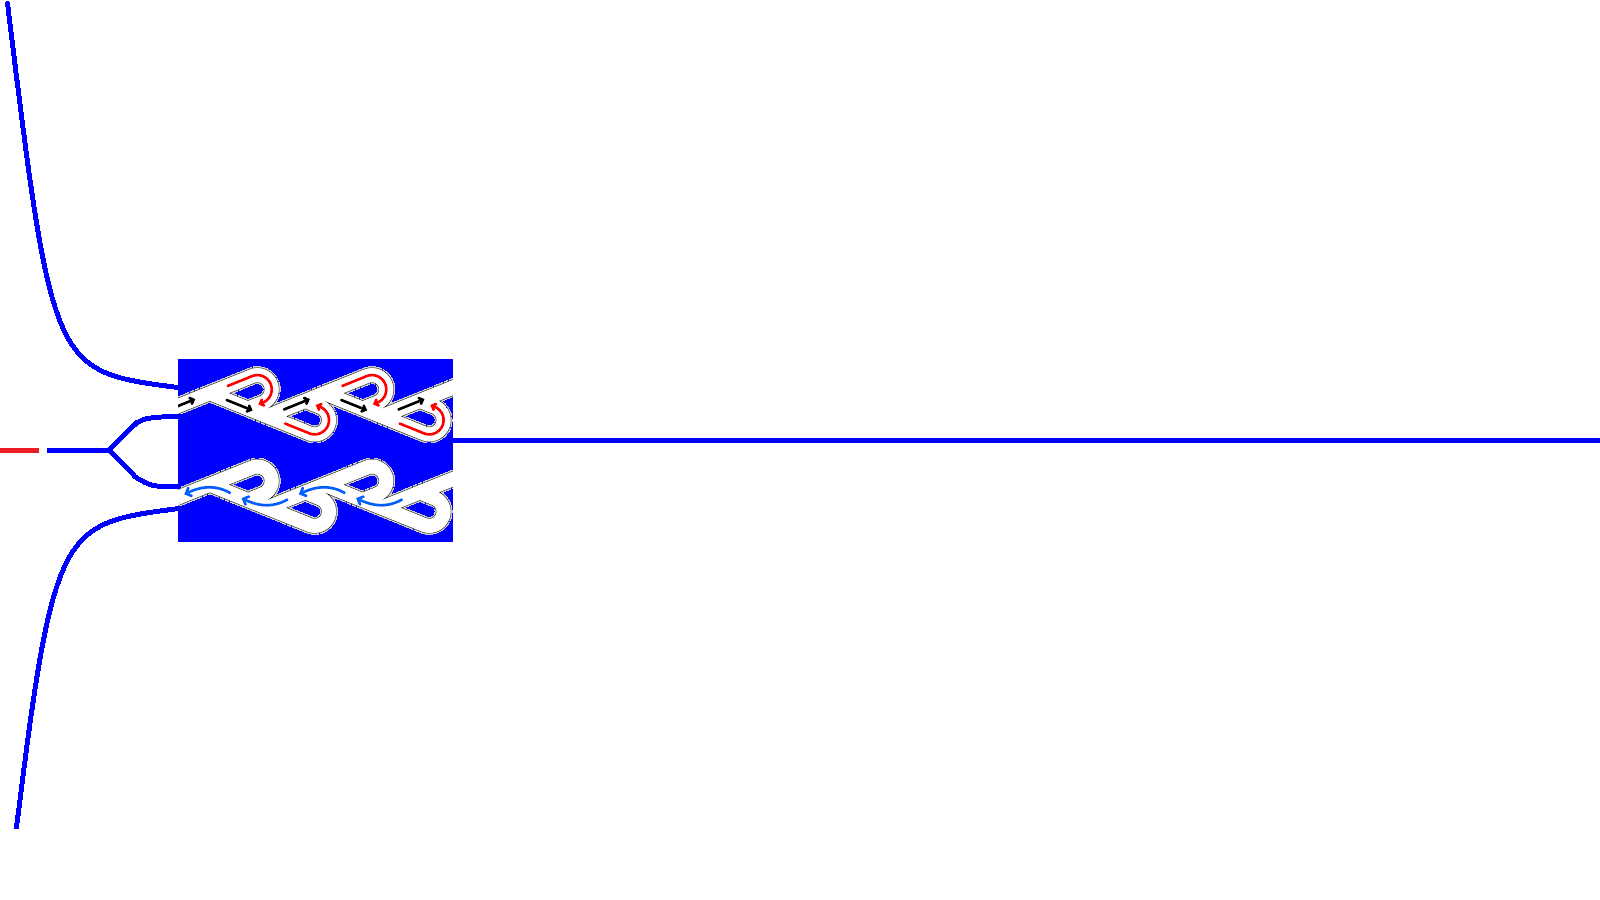
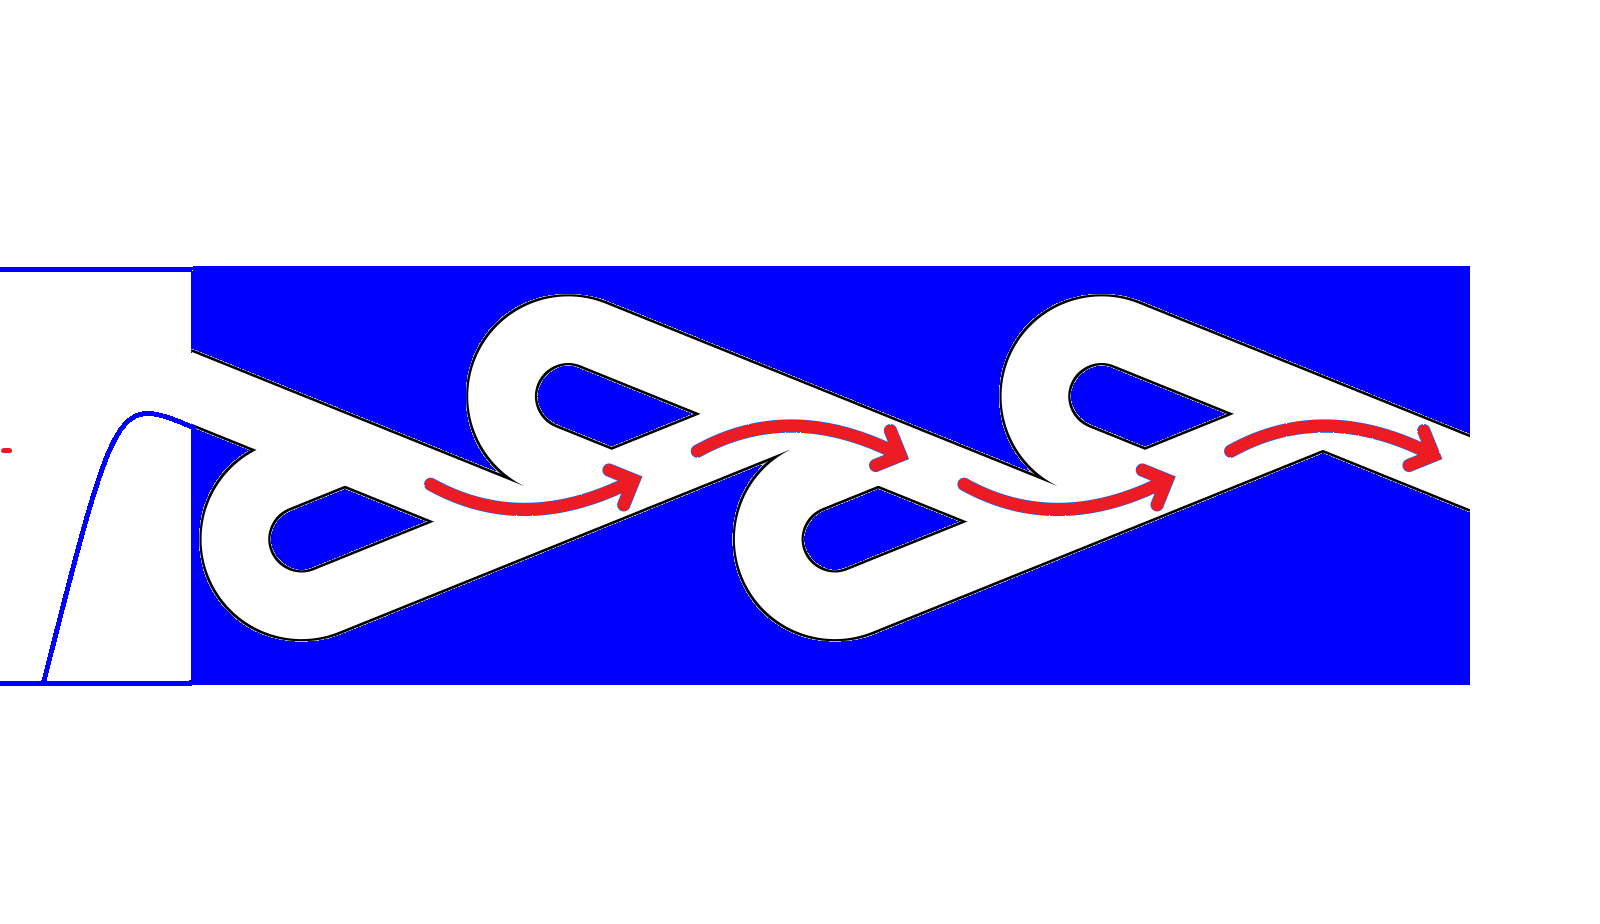
new demos

Changed region(s): [[0.0, 0.1556, 1.0, 0.84], [0.0312, 0.3422, 0.0625, 0.4044], [0.0, 0.0622, 0.0312, 0.0933]]

diff --git a/main.js b/main.js
@@ -4,7 +4,7 @@ canvas.height = window.innerHeight - 100;
 canvas.width = window.innerWidth - 3;
 
 const img = new Image(); // Create new img element
-let simnumber = 4;
+let simnumber = 5;
 switch (simnumber) {
     case 1:
         img.src = "./mieszkanie.png"; // Set source path 
@@ -19,7 +19,7 @@ switch (simnumber) {
         img.src = "./tesla.png"; // Set source path 
         break;
     case 5:
-        img.src = "./mieszkanie.png"; // Set source path 
+        img.src = "./teslareversed.png"; // Set source path 
         break;
     default:
         img.src = "./test.png"; // Set source path
